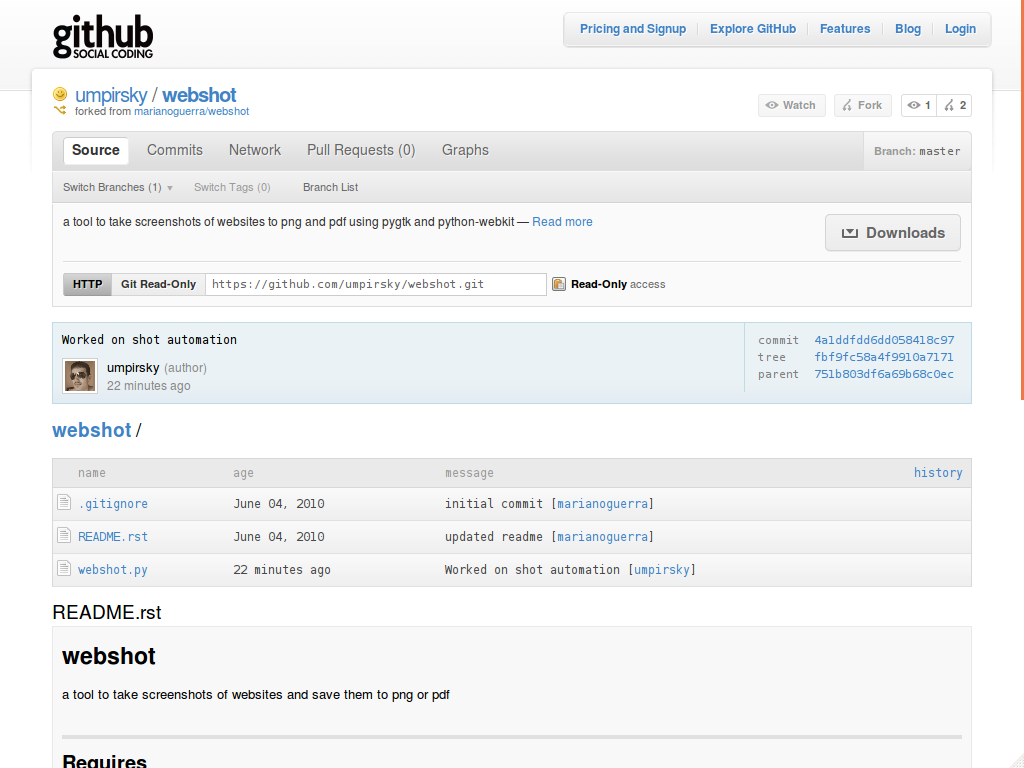
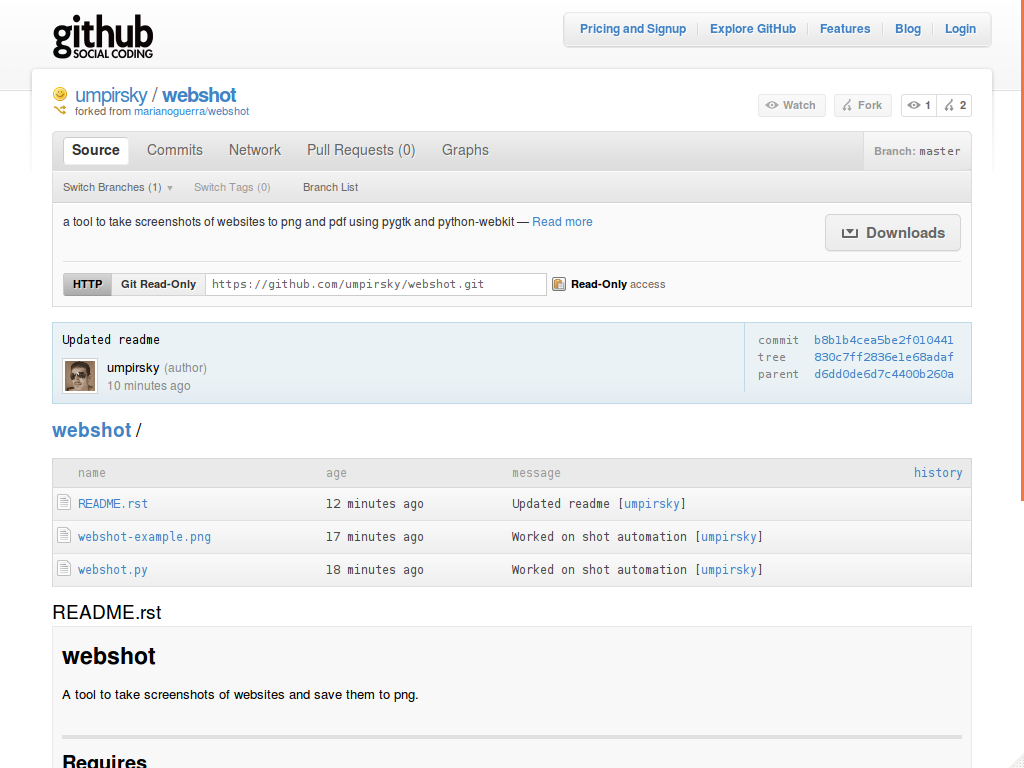
Updated readme

diff --git a/webshot.py b/webshot.py
@@ -15,6 +15,7 @@ class OutputView(webkit.WebView):
         pixbuf = gtk.gdk.Pixbuf(gtk.gdk.COLORSPACE_RGB, False, 8, rect.width, rect.height)
         pixbuf.get_from_drawable(root, root.get_colormap(), rect.x, rect.y, rect.x, rect.y, rect.width, rect.height)
         pixbuf.save(self.dst, "png", {})
+        gtk.main_quit()
 
 
 class Window(gtk.Window):
@@ -27,7 +28,6 @@ class Window(gtk.Window):
         self.scroll.add(self.output)
         self.add(self.scroll)
         self.scroll.show_all()
-        self.connect('delete-event', gtk.main_quit)
 
     def load(self, url):
         self.output.load_uri(url)
